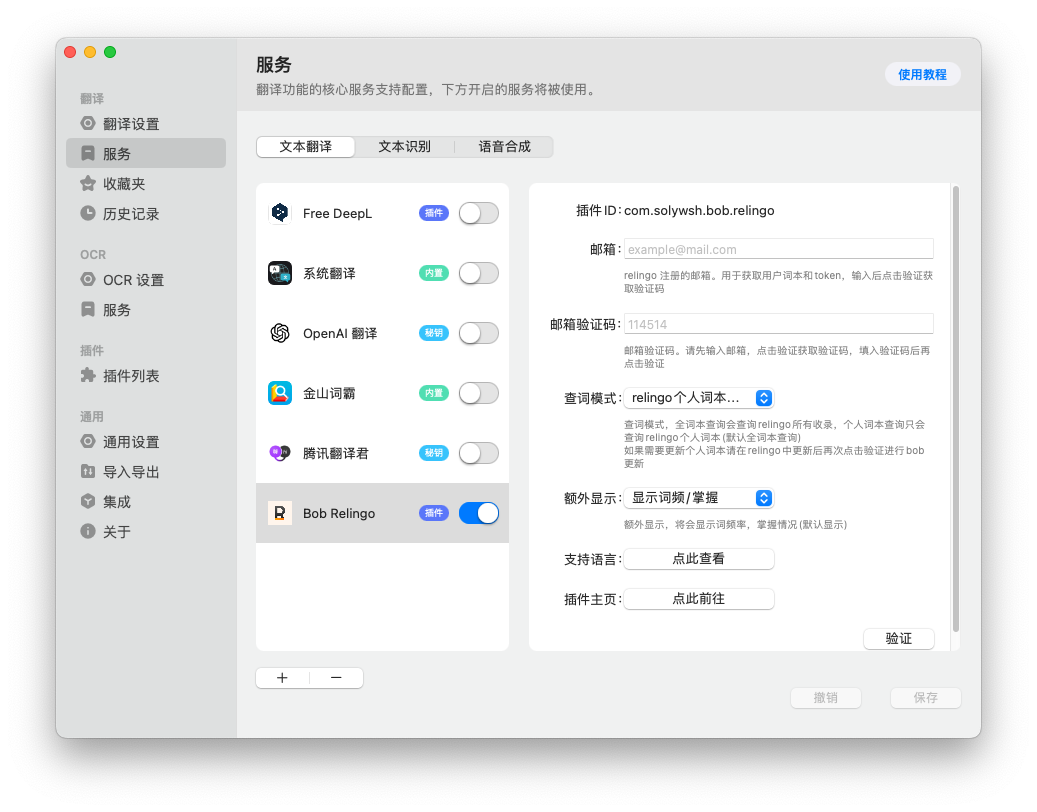
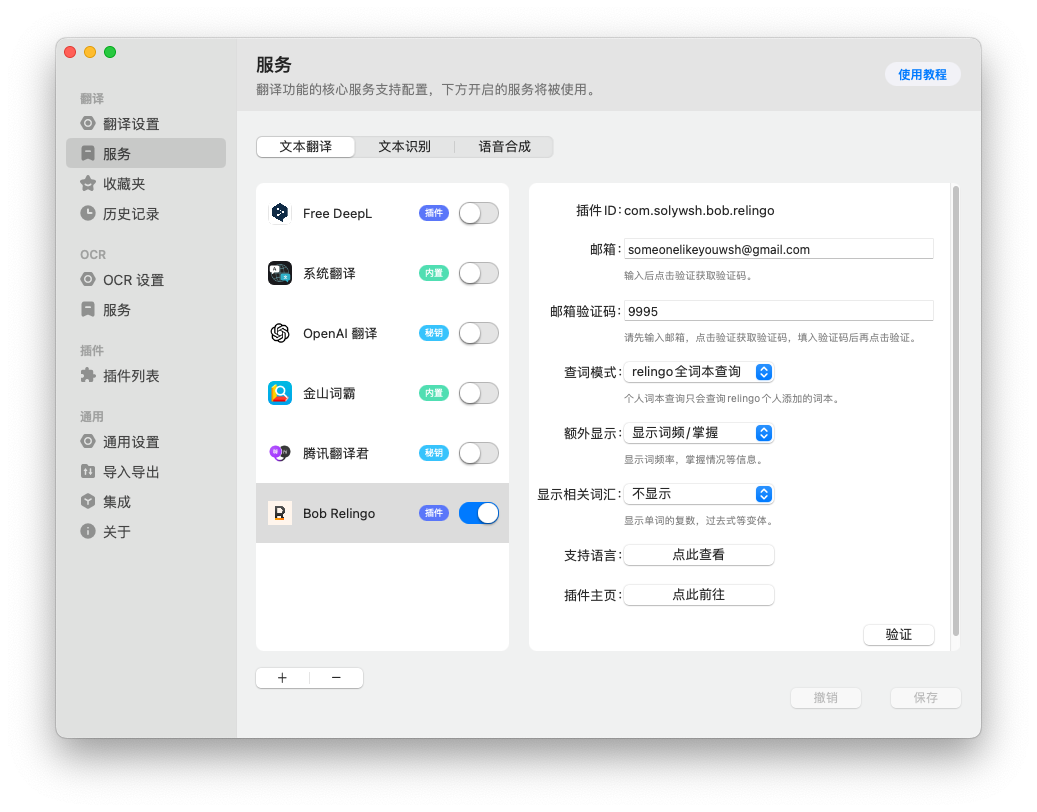
show words variant

diff --git a/src/word.js b/src/word.js
@@ -80,7 +80,8 @@ async function translate(query, source_lang, target_lang, translate_text, comple
                     }
                 });
             }
-            if (data.variant && data.variant.length > 1){
+            if ($option.variant === "1"
+                && data.variant){
                 /*
                 * "variant": {
                     "host": [
@@ -134,7 +135,6 @@ async function translate(query, source_lang, target_lang, translate_text, comple
                     from: query.detectFrom,
                     to: query.detectTo,
                     fromParagraphs: translate_text.split('\n'),
-                    // toParagraphs: toDict.parts[0].means.join('\n'),
                     toDict: toDict,
                 }
             })

diff --git a/src/utils.js b/src/utils.js
@@ -11,7 +11,6 @@ async function checkVocabulary(query,  completion) {
             const lastWords = userConfig.lastWords;
             userConfig.lastWords = '';
             config.updateConfig(userConfig);
-
             completion({
                 result: {
                     from: query.detectFrom,
